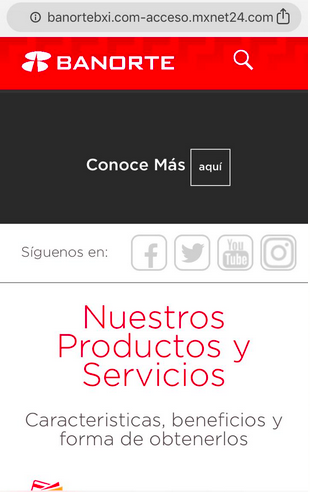
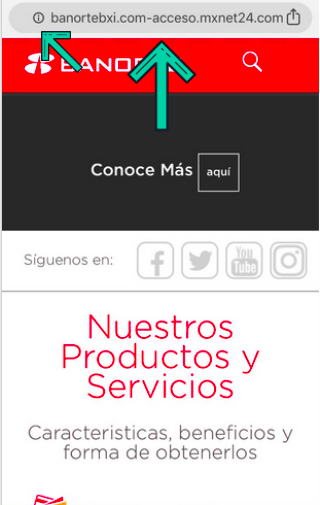
Add files via upload

diff --git a/Phishing_Detector/index.html b/Phishing_Detector/index.html
@@ -25,12 +25,13 @@
         </form>
     </div>
     
-    <div class="container">
+    <div class="container-second">
             <form class="box" action="" method="post">
                 <h1>Phishing Tutorial</h1>
                 <h2>How do we recognize a fake website?</h2>
+                <h2>Legitimate Banorte's webpage: </h2>
                 <img src="img/banorte_ORIGINAL.png" id="banorte1">
-                <img src="img/flecha.png" id="flecha">
+                <img src="img/next.png" id="inverse">
                 <img src="img/next.png" id="next">
                 <br>
                 <br>
@@ -40,13 +41,14 @@
                 <a href="validacion.html">Click for testing URL</a>
             </form>
     </div>
-    <div class="container1">
+    <div class="container-third">
             <form class="box1" action="" method="post">
                 <h1>Phishing Tutorial</h1>
-                <h2>This is a fake website</h2>
+                <h2>This is a fake website for obvious reasons:
+                    Banorte (or any legit company) will have its webpage domain like that 
+                </h2>
                 <img src="img/banorte_FAKE.png" id="banorte1">
-                <img src="img/flecha.png" id="flecha2">
-                <img src="img/next.png" id="next">
+                <img src="img/next.png" id="inverse2">
                 <br>
                 <br>
                 <br>
@@ -57,15 +59,28 @@
     </div>
     
     <script>
-    //Para ocultar primer container
+    //Para ir al del 1 al 2
     $("h3").click(function() {
       $(".container-first").hide();
-      $(".container").show();
+      $(".container-second").show();
     });
         
+    //Para ir del 2 al 1
+    $("#inverse").click(function() {
+      $(".container-second").hide();
+      $(".container-first").show();
+    });
+    
+    //Para ir del 2 al 3
     $("#next").click(function() {
-      $(".container").hide();
-      $(".container1").show();
+      $(".container-second").hide();
+      $(".container-third").show();
+    });
+        
+    //Para ir del 3 al 2
+    $("#inverse2").click(function() {
+      $(".container-third").hide();
+      $(".container-second").show();
     });
         
     window.addEventListener('load',function(){

diff --git a/Phishing_Detector/css/index.css b/Phishing_Detector/css/index.css
@@ -24,10 +24,10 @@ width: 910px;
     background: white;
     text-align: center;
     width: 715px;
-    height: 800px;
+    height: 900px;
 }
 
-.container {
+.container-second {
     width: 910px;
     position: absolute;
     top: 37%;
@@ -38,14 +38,14 @@ width: 910px;
     display: none;
 }
 
-.container1 {
+.container-third {
     width: 910px;
     position: absolute;
-    top: 36%;
+    top: 37%;
     left: 50%;
     transform: translate(-50%,-50%);
     text-align: center;
-    height: 1926px;
+    height: 2000px;
     display: none;
 }
 
@@ -103,25 +103,24 @@ h3{
     width: 89%;
 }
 
-#flecha{
-    width: 13%;
-    position: absolute;
-    top: 317px;
-    left: 364px;
-}
-
-#flecha2{
-    width: 18%;
-    position: absolute;
-    top: 317px;
-    left: 194px;
-}
-
 #next{
     position: absolute;
     right: -14px;
     width: 13%;
     top: 620px;
+}
+
+#inverse, #inverse2{
+    position: absolute;
+    left: -14px;
+    width: 13%;
+    top: 620px;
+    -moz-transform: scaleX(-1);
+        -o-transform: scaleX(-1);
+        -webkit-transform: scaleX(-1);
+        transform: scaleX(-1);
+        filter: FlipH;
+        -ms-filter: "FlipH";
 }
 
 .box a, .box1 a, .box0 a{

diff --git a/Phishing_Detector/css/validacion.css b/Phishing_Detector/css/validacion.css
@@ -17,7 +17,7 @@ body{
 
 .box{
     border-radius: 20px;
-    padding: 140px 70px 20px 102px;
+    padding: 40px 110px 13px 89px;
     position: absolute;
     top: 50%;
     left: 50%;
@@ -36,9 +36,9 @@ body{
 }
 
 .box h2{
-    color: #333333;
+    color: darkred;
     font-weight: 400;
-    font-size: 30px;
+    font-size: 40px;
     font-family: 'Poppins', sans-serif;
 }
 
@@ -75,4 +75,15 @@ body{
 .box input:hover{
   background: #e6ffee;
   border: 2px solid black;
+}
+
+.container a{
+    font-weight: 400;
+    font-size: 43px;
+    font-family: 'Poppins', sans-serif;
+    text-decoration: none;
+    border: 3px solid black;
+    color: deeppink;
+    padding: 13px;
+    border-radius: 13px;
 }

diff --git a/Phishing_Detector/validacion.html b/Phishing_Detector/validacion.html
@@ -31,7 +31,10 @@
                         </th>
                     </tr>
                 </table>
-                
+                <br>
+                <br>
+                <br>
+                <a href="index.html">Back to Index</a>
             </form>
     </div>
     
